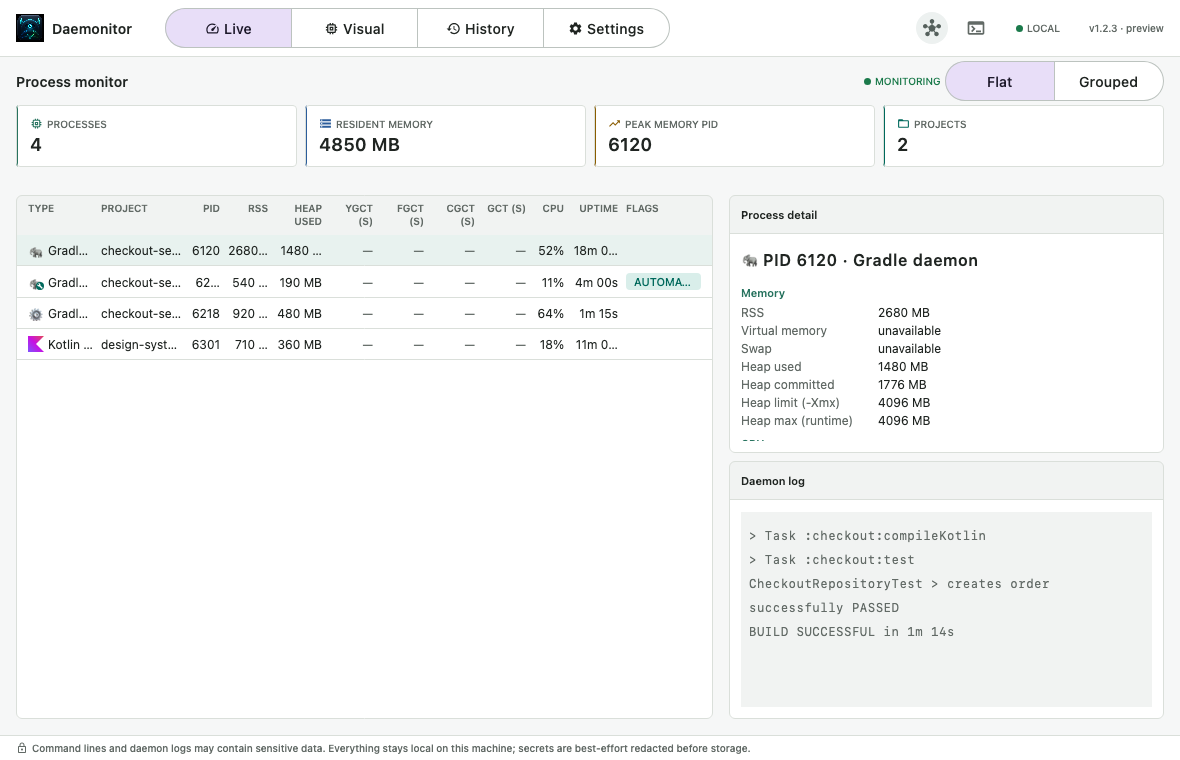
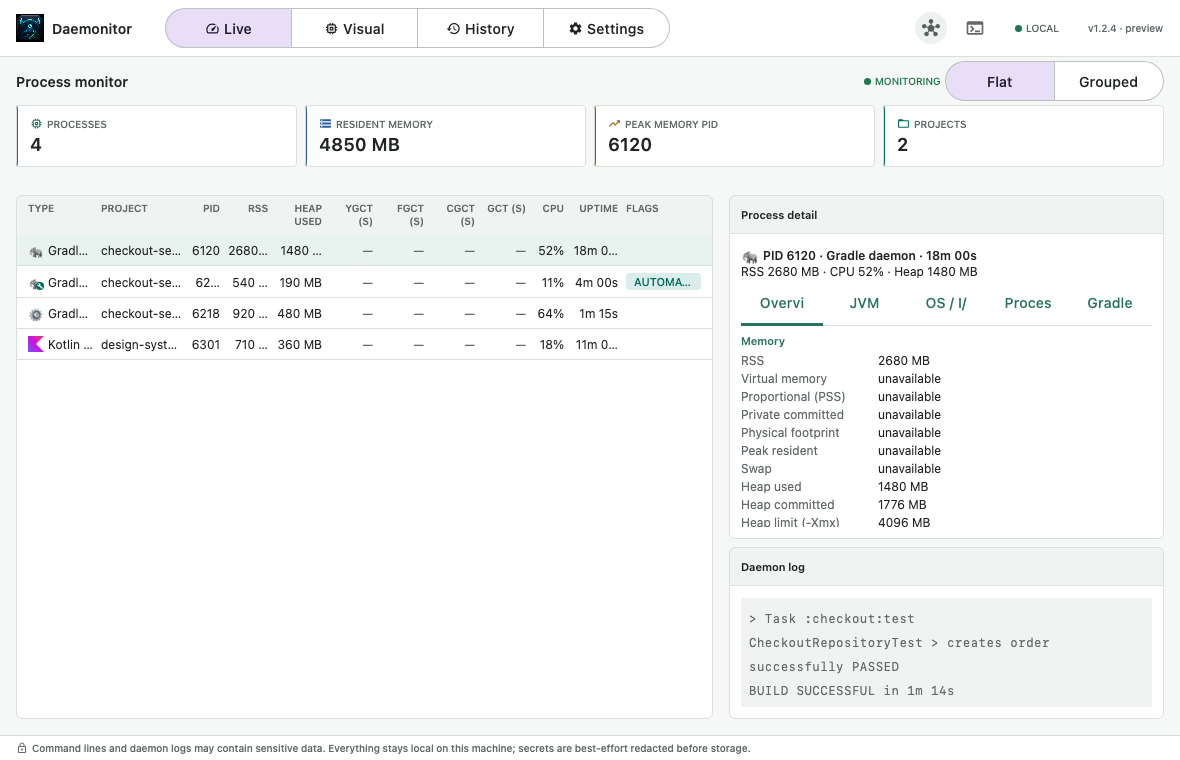
chore(release): prepare v1.2.4 (#511)
* chore(release): finish 1.2.4 packaging alignment

Product/cored were already on 1.2.4 from the observation epic; finish README, release-metadata fixtures, and UI/screenshot version strings so the tag cut matches published assets.

* docs: refresh README and GitHub Pages screenshots for 1.2.4

Regenerate Live/Visual/History captures with v1.2.4 chrome, tabbed process details, and Visual metric/time-range controls; sync site/assets and update landing copy so Pages deploy matches the release.

diff --git a/src/test/kotlin/io/github/cdsap/daemonitor/docs/ReadmeScreenshotCapture.kt b/src/test/kotlin/io/github/cdsap/daemonitor/docs/ReadmeScreenshotCapture.kt
@@ -31,6 +31,7 @@ import io.github.cdsap.daemonitor.ui.live.LiveMonitorScreen
 import io.github.cdsap.daemonitor.ui.live.LiveSummary
 import io.github.cdsap.daemonitor.ui.live.LogTailState
 import io.github.cdsap.daemonitor.ui.live.LiveUiState
+import io.github.cdsap.daemonitor.ui.live.ProcessMetricSample
 import io.github.cdsap.daemonitor.ui.live.ProcessVisualScreen
 import io.github.cdsap.daemonitor.ui.live.RssTimelineSample
 import io.github.cdsap.daemonitor.ui.settings.SettingsScreen
@@ -46,7 +47,7 @@ import kotlin.test.Test
 @Tag("documentation")
 class ReadmeScreenshotCapture {
     private val outputDirectory = Path.of("docs", "images")
-    private val buildInfo = BuildInfo(version = "1.2.3", commit = "preview")
+    private val buildInfo = BuildInfo(version = "1.2.4", commit = "preview")
 
     @Test
     fun captureLive() = capture("live-monitor.png") {
@@ -142,7 +143,7 @@ internal object SampleUi {
             process(6301, ProcessType.KOTLIN_DAEMON, "design-system", 710, 360, 18.0, now - 11 * 60 * 1_000, "java -Xmx1536m org.jetbrains.kotlin.daemon.KotlinCompileDaemon"),
         )
         val endMs = 1_700_000_060_000L
-        fun sample(offsetMs: Long, rssByPid: Map<Long, Long>) = RssTimelineSample(
+        fun sample(offsetMs: Long, rssByPid: Map<Long, Long>, cpuByPid: Map<Long, Long>) = RssTimelineSample(
             atMs = endMs + offsetMs,
             totalRssMb = rssByPid.values.sum(),
             byPid = rssByPid,
@@ -152,6 +153,7 @@ internal object SampleUi {
             heapUsedByPid = processes.mapNotNull { process ->
                 process.liveHeap?.takeIf { it.available }?.usedMb?.let { used -> process.pid to used }
             }.toMap(),
+            extendedByPid = cpuByPid.mapValues { (_, cpu) -> ProcessMetricSample(cpuPercent = cpu) },
         )
         val tail = listOf(
             "> Task :checkout:compileKotlin",
@@ -168,11 +170,31 @@ internal object SampleUi {
             isLoading = false,
             isEmpty = false,
             rssTimeline = listOf(
-                sample(-24_000, mapOf(6120L to 2210L, 6204L to 480L, 6218L to 740L, 6301L to 620L)),
-                sample(-18_000, mapOf(6120L to 2390L, 6204L to 510L, 6218L to 820L, 6301L to 660L)),
-                sample(-12_000, mapOf(6120L to 2510L, 6204L to 525L, 6218L to 880L, 6301L to 685L)),
-                sample(-6_000, mapOf(6120L to 2610L, 6204L to 535L, 6218L to 905L, 6301L to 700L)),
-                sample(0, processes.associate { it.pid to it.rssMemoryMb }),
+                sample(
+                    -24_000,
+                    mapOf(6120L to 2210L, 6204L to 480L, 6218L to 740L, 6301L to 620L),
+                    mapOf(6120L to 44L, 6204L to 8L, 6218L to 58L, 6301L to 14L),
+                ),
+                sample(
+                    -18_000,
+                    mapOf(6120L to 2390L, 6204L to 510L, 6218L to 820L, 6301L to 660L),
+                    mapOf(6120L to 48L, 6204L to 9L, 6218L to 61L, 6301L to 16L),
+                ),
+                sample(
+                    -12_000,
+                    mapOf(6120L to 2510L, 6204L to 525L, 6218L to 880L, 6301L to 685L),
+                    mapOf(6120L to 50L, 6204L to 10L, 6218L to 63L, 6301L to 17L),
+                ),
+                sample(
+                    -6_000,
+                    mapOf(6120L to 2610L, 6204L to 535L, 6218L to 905L, 6301L to 700L),
+                    mapOf(6120L to 51L, 6204L to 10L, 6218L to 64L, 6301L to 18L),
+                ),
+                sample(
+                    0,
+                    processes.associate { it.pid to it.rssMemoryMb },
+                    processes.associate { it.pid to (it.cpuPercent?.toLong() ?: 0L) },
+                ),
             ),
         )
     }

diff --git a/src/test/kotlin/io/github/cdsap/daemonitor/ReleaseMetadataTest.kt b/src/test/kotlin/io/github/cdsap/daemonitor/ReleaseMetadataTest.kt
@@ -12,7 +12,7 @@ import kotlin.test.assertTrue
 
 class ReleaseMetadataTest {
     @Test
-    fun `Gradle project and native package versions are aligned for v1_2_3`() {
+    fun `Gradle project and native package versions are aligned for v1_2_4`() {
         val buildFile = Path.of("build.gradle.kts").readText()
 
         assertTrue(buildFile.contains("version = \"1.2.4\""), buildFile)
@@ -25,12 +25,12 @@ class ReleaseMetadataTest {
         val outputDir = tempDir.resolve("metadata")
 
         val assets = mapOf(
-            "Daemonitor-1.2.3-linux-x64.deb" to "linux package",
-            "Daemonitor-1.2.3-linux-x64.tar.gz" to "linux update",
-            "Daemonitor-1.2.3-windows-x64.msi" to "windows package",
-            "Daemonitor-1.2.3-windows-x64.zip" to "windows update",
-            "Daemonitor-1.2.3-macos-arm64.dmg" to "macos package",
-            "Daemonitor-1.2.3-macos-arm64.zip" to "macos update",
+            "Daemonitor-1.2.4-linux-x64.deb" to "linux package",
+            "Daemonitor-1.2.4-linux-x64.tar.gz" to "linux update",
+            "Daemonitor-1.2.4-windows-x64.msi" to "windows package",
+            "Daemonitor-1.2.4-windows-x64.zip" to "windows update",
+            "Daemonitor-1.2.4-macos-arm64.dmg" to "macos package",
+            "Daemonitor-1.2.4-macos-arm64.zip" to "macos update",
         )
         assets.forEach { (name, content) -> assetsDir.resolve(name).writeText(content) }
 
@@ -39,8 +39,8 @@ class ReleaseMetadataTest {
             "scripts/generate-release-metadata.sh",
             assetsDir.toString(),
             outputDir.toString(),
-            "1.2.3",
-            "v1.2.3",
+            "1.2.4",
+            "v1.2.4",
             "cdsap/daemonitor",
         )
             .redirectErrorStream(true)
@@ -58,8 +58,8 @@ class ReleaseMetadataTest {
 
         val latest = outputDir.resolve("latest.json").readText()
         assertTrue(latest.contains("\"schemaVersion\": 2"), latest)
-        assertTrue(latest.contains("\"version\": \"1.2.3\""), latest)
-        assertTrue(latest.contains("\"tag\": \"v1.2.3\""), latest)
+        assertTrue(latest.contains("\"version\": \"1.2.4\""), latest)
+        assertTrue(latest.contains("\"tag\": \"v1.2.4\""), latest)
         assertTrue(latest.contains("\"platform\": \"linux\""), latest)
         assertTrue(latest.contains("\"platform\": \"windows\""), latest)
         assertTrue(latest.contains("\"platform\": \"macos\""), latest)
@@ -69,11 +69,11 @@ class ReleaseMetadataTest {
         assertTrue(latest.contains("\"role\": \"installer\""), latest)
         assertTrue(
             latest.contains(
-                "\"url\": \"https://github.com/cdsap/daemonitor/releases/download/v1.2.3/Daemonitor-1.2.3-macos-arm64.zip\"",
+                "\"url\": \"https://github.com/cdsap/daemonitor/releases/download/v1.2.4/Daemonitor-1.2.4-macos-arm64.zip\"",
             ),
             latest,
         )
-        assertTrue(latest.contains("\"sha256\": \"${sha256(assetsDir.resolve("Daemonitor-1.2.3-linux-x64.deb"))}\""), latest)
+        assertTrue(latest.contains("\"sha256\": \"${sha256(assetsDir.resolve("Daemonitor-1.2.4-linux-x64.deb"))}\""), latest)
 
         assertEquals(latest, outputDir.resolve("update.json").readText())
     }

diff --git a/site/index.html b/site/index.html
@@ -94,9 +94,10 @@
 
         <article class="split split-rtl" id="visual">
           <div class="split-copy">
-            <h3>Memory timeline</h3>
+            <h3>Visual timelines</h3>
             <p>
-              Rolling RSS charts next to configured heap (<code>-Xmx</code>) so concurrent
+              Memory, CPU, I/O, and GC modes with live / 15m / 1h windows. Memory mode
+              charts RSS next to live heap and configured <code>-Xmx</code> so concurrent
               Gradle processes are easy to compare.
             </p>
           </div>
@@ -106,7 +107,7 @@
               src="assets/process-visual.png"
               width="1180"
               height="760"
-              alt="Daemonitor Visual tab showing rolling RSS and configured heap timelines for concurrent Gradle processes"
+              alt="Daemonitor Visual tab showing Memory/CPU/I/O metric modes, time-window controls, and per-process RSS with live heap and configured heap timelines"
               loading="lazy"
             >
           </figure>

diff --git a/src/test/kotlin/io/github/cdsap/daemonitor/docs/ReadmeScreenshotsTest.kt b/src/test/kotlin/io/github/cdsap/daemonitor/docs/ReadmeScreenshotsTest.kt
@@ -16,7 +16,7 @@ class ReadmeScreenshotsTest {
     fun `README screenshots are native-size PNGs with meaningful alt text`() {
         val screenshots = mapOf(
             "docs/images/live-monitor.png" to "Daemonitor Live monitor showing active Gradle processes, metrics, status badges, process details, MCP status, and the headless toolbar action",
-            "docs/images/process-visual.png" to "Daemonitor Visual tab showing per-process RSS, live heap used, and configured heap (-Xmx) timelines",
+            "docs/images/process-visual.png" to "Daemonitor Visual tab showing Memory/CPU/I/O metric modes, time-window controls, and per-process RSS with live heap and configured heap (-Xmx) timelines",
             "docs/images/build-history.png" to "Daemonitor build history showing status and source tags, agent attribution, metrics, and build details",
         )
 

diff --git a/src/test/kotlin/io/github/cdsap/daemonitor/ui/common/AppScaffoldUiTest.kt b/src/test/kotlin/io/github/cdsap/daemonitor/ui/common/AppScaffoldUiTest.kt
@@ -33,7 +33,7 @@ class AppScaffoldUiTest {
         setContent {
             WatcherTheme {
                 AppScaffold(
-                    buildInfo = BuildInfo(version = "1.2.3", commit = "abc1234"),
+                    buildInfo = BuildInfo(version = "1.2.4", commit = "abc1234"),
                     liveContent = { Text("Live") },
                     historyContent = { Text("History") },
                     settingsContent = { Text("Settings") },
@@ -41,7 +41,7 @@ class AppScaffoldUiTest {
             }
         }
 
-        onNodeWithText("v1.2.3 · abc1234").assertExists()
+        onNodeWithText("v1.2.4 · abc1234").assertExists()
     }
 
     @Test

diff --git a/src/test/kotlin/io/github/cdsap/daemonitor/docs/PublicWebsiteTest.kt b/src/test/kotlin/io/github/cdsap/daemonitor/docs/PublicWebsiteTest.kt
@@ -69,7 +69,7 @@ class PublicWebsiteTest {
             "surface-block",
             "id=\"features\"",
             "Live Monitor",
-            "Memory timeline",
+            "Visual timelines",
             "id=\"cli\"",
             "CLI",
             "brew install daemonitor-cli",

diff --git a/README.md b/README.md
@@ -34,7 +34,7 @@ Grab the installer for your OS from
 | Linux | `.deb` | `.tar.gz` standalone image |
 
 Asset names include the CPU architecture (`x64` or `arm64`), for example
-`Daemonitor-1.2.3-macos-arm64.dmg`. No project-local Gradle setup is required.
+`Daemonitor-1.2.4-macos-arm64.dmg`. No project-local Gradle setup is required.
 
 On Linux, prefer the `.deb` for installs and the `.tar.gz` for writable standalone updates. See
 [Linux Update Distribution](docs/linux-update-distribution.md).
@@ -83,7 +83,7 @@ Specification: [`docs/specs/daemonitor-native-cli-tui-spec.md`](docs/specs/daemo
 
 - Gradle-related JVMs by type (daemon, wrapper, Kotlin daemon, Gradle worker, other)
 - RSS, live heap (when Attach/JMX works), CPU, and uptime
-- Summary tiles, memory-pressure badges, and a detail panel with log tail
+- Summary tiles, memory-pressure badges, and a tabbed detail panel (Overview / JVM / OS·I/O / Process / Gradle) with log tail
 - Switch to terminal collection from the toolbar when you want a lighter footprint
 
 First-poll CPU shows `…` / `sampling…` until a delta exists; `0%` means idle after that. Live heap
@@ -113,10 +113,10 @@ Desktop apps also accept `--headless` for a similar terminal mode (JVM path).
 
 ### Visual
 
-![Daemonitor Visual tab showing per-process RSS, live heap used, and configured heap (-Xmx) timelines](docs/images/process-visual.png)
+![Daemonitor Visual tab showing Memory/CPU/I/O metric modes, time-window controls, and per-process RSS with live heap and configured heap (-Xmx) timelines](docs/images/process-visual.png)
 
-Rolling RSS / live-heap timelines with configured `-Xmx` when known. Click the legend to hide or
-focus a series.
+Metric-family modes (Memory, CPU, I/O, GC) with live / 15m / 1h windows. Memory mode charts RSS,
+live heap, and configured `-Xmx` when known. Click the legend to hide or focus a series.
 
 ### Build history
 
@@ -258,4 +258,4 @@ Review `docs/images/` before committing (synthetic samples only).
 is limited to GitHub Releases checks and downloads you approve. Telemetry is not uploaded by
 default; exports omit full project paths unless `--include-project-path` is explicitly requested.
 
-**Status:** Early (v1.2.3). See `requirements.md` for the original spec.
+**Status:** Early (v1.2.4). See `requirements.md` for the original spec.
